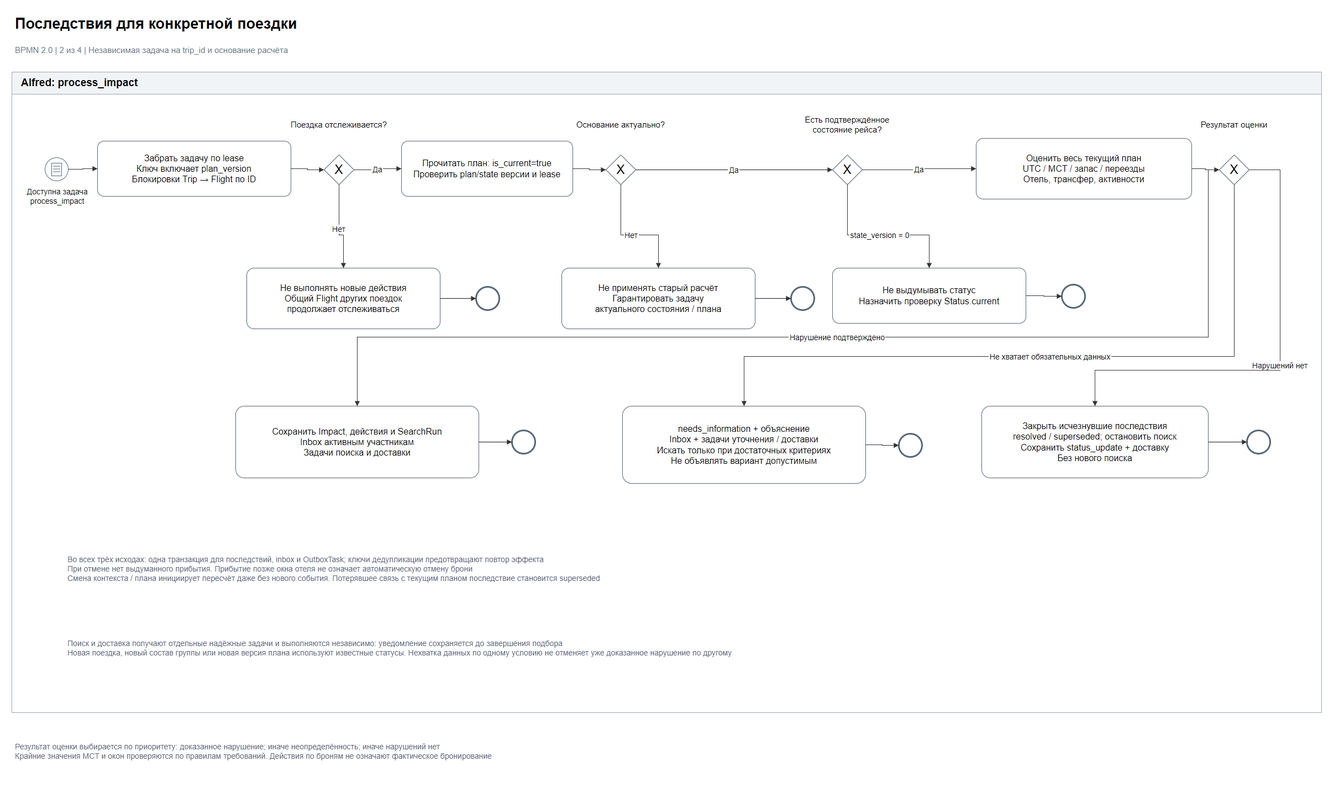
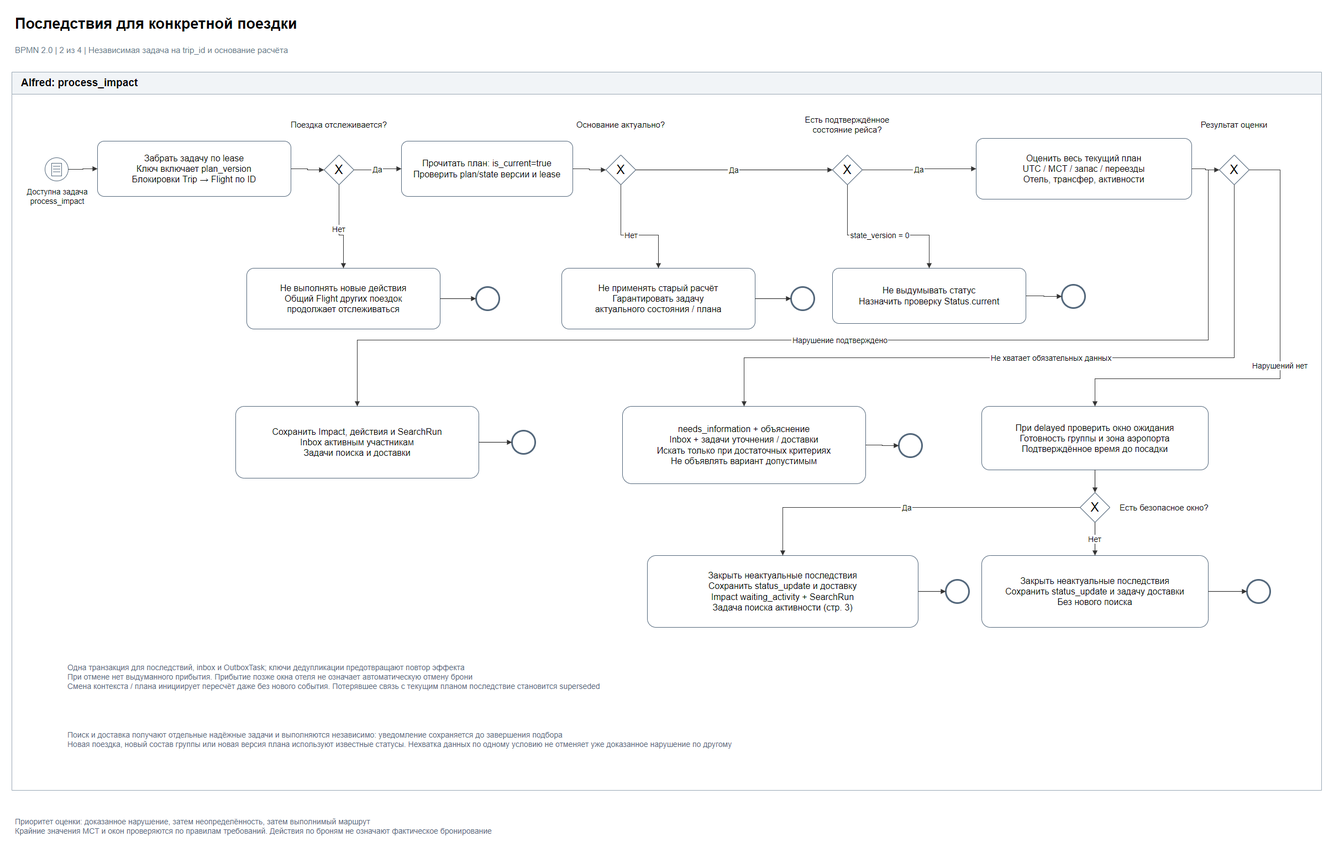
docs: design activity suggestions during flight delays

diff --git a/docs/data-model.md b/docs/data-model.md
@@ -14,7 +14,7 @@
 | TripMember | PK `(trip_id, user_id)`, `active`, `can_confirm`, `baggage_kg`, `route_entitlements`, `interests` |
 | PlanVersion | PK `(trip_id, version)`, неизменяемый `snapshot`, `author_id?`, `reason`, `created_at` |
 | PlanItem | `id` PK, `trip_id` FK, `is_current`, `kind`, `title`, `flight_id?` FK, `predecessor_id?` FK, `starts_at?`, `ends_at?`, `latest_start_at?`, `timezone`, `start_place?`, `end_place?`, `mct_minutes?`, `buffer_minutes`, `travel_minutes?`, `booking_ref?`, `booking_status` |
-| Flight | `id` PK, полный ключ UQ, исходное UTC-расписание и IANA-зоны, `status`, ожидаемые времена?, `authoritative_provider_id`, `stream_id?`, `revision?`, `state_version`, `current_event_id?` FK, `last_observed_at?`, `last_verified_at?`, `verification_state` |
+| Flight | `id` PK, полный ключ UQ, исходное UTC-расписание и IANA-зоны, `status`, ожидаемые времена?, `boarding_cutoff_at?`, `authoritative_provider_id`, `stream_id?`, `revision?`, `state_version`, `current_event_id?` FK, `last_observed_at?`, `last_verified_at?`, `verification_state` |
 | FlightStatusEvent | `id` PK, `provider_id`, `event_id`, ключ рейса, `flight_id?` FK, поток/ревизия?, `observed_at`, серверное `received_at`, разрешённый `payload`, хеш, `outcome`, `result_state_version?` |
 | Impact | `id` PK, `trip_id`, `item_id`, `source_flight_id`, `source_event_id`, `source_state_version`, `plan_version`, `reason`, `state`, `current_search_id?`, `required_actions`, `explanation` |
 | SearchRun | `id` PK, `trip_id`, `impact_id`, `evaluated_plan_version`, `source_state_versions`, `rules_version`, `criteria`, `ranking_policy`, `state`, `search_complete`, `cursor?`, `supplier_states`, `rejection_reasons`, `checked_at?`, `created_at`, `finished_at?` |
@@ -47,6 +47,8 @@ GET поездки возвращает только PlanItem с `is_current=tru
 | criteria, cursor, supplier_states, rejection_reasons | Критерии и фиксированный earliest_start_at запуска; курсоры поставщиков и признак завершения/ошибки каждого. Неуспешный источник не помечается завершённым; причины исключения сохраняются как набор кодов без персональных данных |
 
 Неизвестное место хранится как null. Неизвестное место, MCT, терминал или время переезда не заменяются значением 0. Переезд должен быть подтверждён TravelTech для соответствующих точек; иначе needs_information. Для первого участка без пересадки mct_minutes=null означает «не применяется»
+
+`Impact.reason=waiting_activity` обозначает возможность во время задержки. item_id указывает на задержанный перелёт, required_actions пуст, state=open. SearchRun хранит границу посадки и зону ожидания в criteria, а Offer добавляет активность с replacement_item_id=null. Срок Offer также ограничен свежестью окна и последним моментом, когда группа ещё успеет к началу активности
 
 ## Поиск и фоновые задачи
 
@@ -131,7 +133,7 @@ operating_carrier + flight_number + departure_date
 | Бронирование элемента | booked, needs_booking, needs_change, not_required |
 | OutboxTask | ready, processing, done, failed |
 
-`verification_state` хранится в Flight. Неудачная сверка меняет её и сохраняет причину в событии/задаче, но не подменяет подтверждённый статус. Flight.revision хранит последнюю принятую надёжную ревизию назначенного источника и потока, включая сообщения с прежними статусом и временами. При сверке без надёжной ревизии тот же поток сохраняет известную границу. Новый поток получает свою границу только после подтверждения. state_version и current_event_id меняются при первом подтверждении состояния или изменении бизнес-данных. Поле result_state_version события фиксирует применённую версию
+`verification_state` хранится в Flight. Неудачная сверка меняет её и сохраняет причину в событии/задаче, но не подменяет подтверждённый статус. Flight.revision хранит последнюю принятую надёжную ревизию назначенного источника и потока, включая сообщения с прежними статусом, временами и boarding_cutoff_at. При сверке без надёжной ревизии тот же поток сохраняет известную границу. Новый поток получает свою границу только после подтверждения. state_version и current_event_id меняются при первом подтверждении состояния или изменении бизнес-данных, включая появление, сдвиг или потерю подтверждённого boarding_cutoff_at. Поле result_state_version события фиксирует применённую версию
 
 `context_state` вычисляется по проверке контекста и синхронизации. Impact.booking_action_required вычисляется по действиям уточнения/изменения брони. Offer API строится из conditions и объяснений; внутренние payload, snapshot и разрешения участников целиком пользователю не передаются
 

diff --git a/docs/requirements.md b/docs/requirements.md
@@ -37,7 +37,7 @@ MCT (Minimum Connection Time) означает минимально допуст
 | F-03 | Применять актуальное подтверждённое состояние, запоминать принятую ревизию при неизменном статусе и сверять спорные данные с назначенным источником |
 | F-04 | Рассчитывать последствия для всех элементов общего плана, связанных с изменившимся рейсом |
 | F-05 | Сохранять персональное уведомление каждому участнику независимо от доступности устройства и push/email |
-| F-06 | При нарушении плана автоматически запрашивать альтернативные перелёты или активности |
+| F-06 | При нарушении плана автоматически подбирать альтернативные перелёты или активности. При задержке без нарушения подбирать активности на время ожидания, если подтверждено свободное окно до посадки |
 | F-07 | До ранжирования проверять багаж, право на маршрут, места всей группе, пересадки, географию, время и срок предложения по единым правилам TravelTech. Показывать только варианты на актуальном основании |
 | F-08 | Перед подтверждением повторно проверять условия предложения, права и версии плана и состояния рейса |
 | F-09 | Атомарно сохранять новую версию плана, уведомления и результат запроса; повтор не создаёт версию |
@@ -53,6 +53,8 @@ MCT (Minimum Connection Time) означает минимально допуст
 - При неизвестных временах или правилах создаётся последствие `needs_information`; неподтверждённая достижимость не считается безопасной
 - Позднее прибытие само по себе не означает отмену отеля. Нужны условия конкретной брони
 - Активность может заменить другую активность или заполнить ожидание, но не заменяет необходимый перелёт
+- Для активности на время ожидания нужны подтверждённое крайнее время явки к выходу на посадку, место ожидания и достижимый путь группы. Активность должна быть доступна в той же зоне аэропорта и не пересекаться с другими элементами плана. Окончание активности плюс время до выхода и запас должны укладываться в крайнее время, равенство допустимо
+- При неизвестном или устаревшем времени посадки, отсутствии свободного окна или подходящих активностей остаётся уведомление о задержке. Подбор сам по себе не меняет план
 - Норма багажа учитывает подтверждённые платные опции; их стоимость включается в цену предложения. Неизвестная возможность доплаты не доказывает допустимость
 - Сохраняемые элементы должны оставаться достижимыми. Изменяемая бронь явно помечается needs_change; необходимость её изменения не скрывается и не выдаётся за подтверждённую услугу
 - Вариант должен подходить каждому участнику. Если право хотя бы одного участника воспользоваться маршрутом не подтверждено актуальными данными, система не признаёт предложение допустимым
@@ -60,7 +62,7 @@ MCT (Minimum Connection Time) означает минимально допуст
 - Первоначальный поиск использует тот же механизм с политикой DISCOVERY и выбранными пользователем критериями. Политика не ослабляет обязательные ограничения; Alfred не реализует собственные копии проверок и сортировки
 - Цены сравниваются в валюте поездки. Обязательные сборы и выбранный допбагаж включены, неподтверждённые возвраты и штрафы старых броней из цены не вычитаются
 - none_eligible означает отсутствие подходящих вариантов после завершённого поиска у выбранных поставщиков. Неполный поиск явно помечается search_complete=false
-- Изменение участников, ограничений или состава плана создаёт новую версию; обновление оперативного статуса рейса меняет его `state_version`
+- Изменение участников, ограничений или состава плана создаёт новую версию; обновление статуса рейса, ожидаемых времён или подтверждённой границы посадки меняет его `state_version`
 
 ## Нефункциональные требования
 

diff --git a/docs/acceptance.md b/docs/acceptance.md
@@ -10,7 +10,7 @@
 | A-04 | F-03, F-11 | Нет ревизии, равная ревизия противоречит данным или изменён поток; сверка недоступна | Pending, видна свежесть, спорное состояние не применяется |
 | A-05 | F-04 | Отмена без фактического прибытия | Транспортный участок требует замены; время прибытия не выдумывается |
 | A-06 | F-04 | MCT45 + запас15, интервал 59, затем 60 минут | В первом случае нарушение, во втором пересадка допустима |
-| A-07 | F-04, F-05 | Подтверждённая задержка, все окна достижимы | Уведомление о статусе сохранено, ложных последствий и поиска нет |
+| A-07 | F-04, F-05, F-06 | Подтверждённая задержка, маршрут выполним, до посадки нет свободного окна | Уведомление о статусе сохранено, план прежний, подбор не запущен |
 | A-08 | F-05, N-01 | Пользователь оффлайн, push падает, обработчик перезапускается | Одно сообщение в inbox, доставка повторяется, после входа доступен актуальный план |
 | A-09 | F-06, F-07 | Багаж не обеспечен даже с подтверждёнными опциями, мест меньше группы или неизвестно право одного участника | Кандидат исключён до ранжирования с конкретной причиной |
 | A-10 | F-06, F-07, F-12 | Пропущена активность, недостижимы окна отеля и трансфера | Подбор допустимой активности; действия по броням; активность не объявляется заменой перелёта |
@@ -55,5 +55,8 @@
 | A-49 | F-06, F-11, N-01 | Поиск проходит две страницы с повтором; затем завершённая задача очищена | Та же задача возобновляется по search_id; cursor и Offer не дублируются, SearchRun и выдача доступны после очистки очереди |
 | A-50 | N-01, N-05, F-05, F-11 | После прогрева 100 подтверждённых изменений/с в течение 60 с, без сверки. По одному изменению на рейс и одной поездке с тремя участниками на рейс. В середине пика одно событие заменено отменой рейса в 100 поездках по три участника. Поиск недоступен, задачи доставки выполняются параллельно | Все 6000 событий приняты с 202, все ожидаемые Inbox записаны без дублей. p95 до последнего Inbox по событию ≤ 5 с, по массовой отмене 100 пересчётов и 300 Inbox за ≤ 30 с. Отказ поиска виден в выдаче. По завершении пика измерено время возврата очередей к обычному уровню |
 | A-51 | F-06, F-07, F-11 | Для сохранённой выдачи изменились план, состояние исходного рейса или правила. GET пришёл до пересчёта, затем последствие закрыто | До готовности актуального результата 200/searching с пустым offers и search_complete=false. После закрытия 404. Старые варианты и полнота прежнего поиска не выдаются |
+| A-52 | F-05, F-06, F-07, F-09 | При задержке маршрут выполним. Группа в зоне посадки, активность закончится в 18:00, дорога и запас по 10 мин, явка до 18:20 | Уведомление сохранено до выдачи. Создан waiting_activity, вариант проходит проверку на границе окна. План меняется после выбора, перелёт сохранён |
+| A-53 | F-05, F-06, F-07 | Вылет отложен на час, крайнее время явки неизвестно или наблюдение устарело | Сохранено уведомление, поиск активности не запущен. Ожидаемое время вылета не используется как граница |
+| A-54 | F-06, F-07, F-08 | Выдана активность из A-52. Граница посадки сдвинулась с 18:20 на 18:15 при прежнем времени вылета | state_version увеличена, старый вариант скрыт до пересчёта. Подтверждение старого offer получает 409, план не меняется |
 
 Полный пример A-06, A-08, A-09 и A-13 приведён в [разборе поездки](example.md)

diff --git a/README.md b/README.md
@@ -12,7 +12,7 @@ Alfred отслеживает рейсы участников поездки, с
 2. Проверить рейс, источник, повтор и актуальность данных
 3. Оценить влияние на пересадки, отель, трансфер и активности
 4. Сохранить уведомления для участников, затем отправить push/email
-5. При нарушении плана подобрать варианты через общие правила TravelTech с учётом ограничений всей группы
+5. При нарушении плана подобрать варианты восстановления. При задержке без срыва плана подобрать активность, если есть подтверждённое время до посадки
 6. После выбора участником повторно проверить вариант и сохранить новую версию плана
 
 ![Архитектура](docs/diagrams/01-architecture.png)
